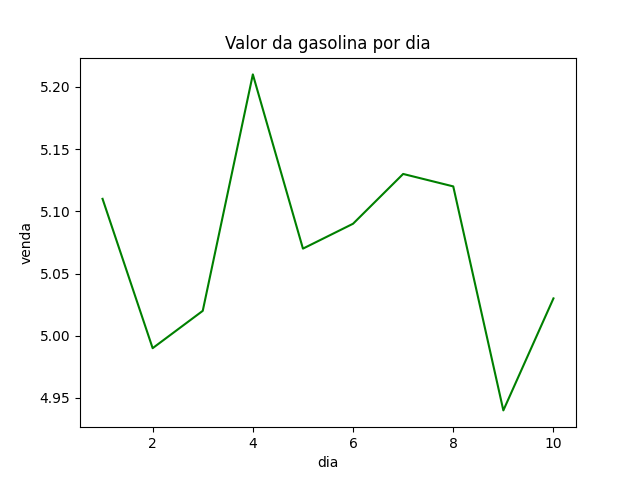
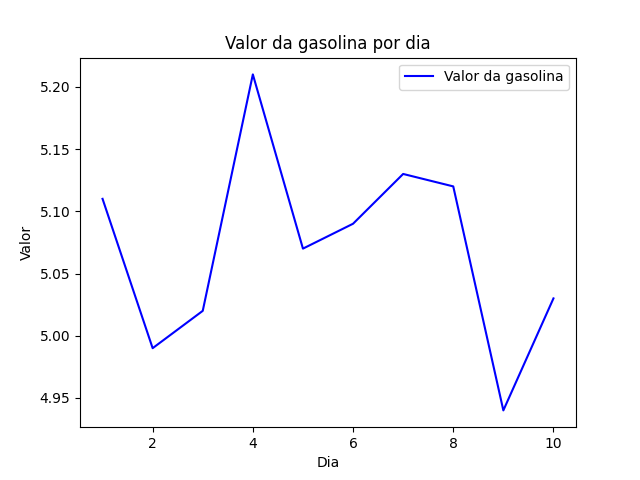
arquivos gasolina.csv (arquivo), gasolina.png (gráfico), gasolina.py (código python) criados no branch develop

diff --git a/gasolina.py b/gasolina.py
@@ -1,6 +1,13 @@
+import pandas as pd
+import seaborn as sns
+import matplotlib.pyplot as plt 
+
 df = pd.read_csv('gasolina.csv')
-sns.lineplot(data = df, x = 'dia', y = 'venda', color='g')
+grafico = sns.lineplot(data = df, x = 'dia', y = 'venda', color='b')
 plt.title('Valor da gasolina por dia')
 plt.xticks()
+plt.xlabel('Dia')
+plt.ylabel('Valor')
+plt.legend(['Valor da gasolina'])
 plt.savefig('gasolina.png', format='png')
 plt.show()
